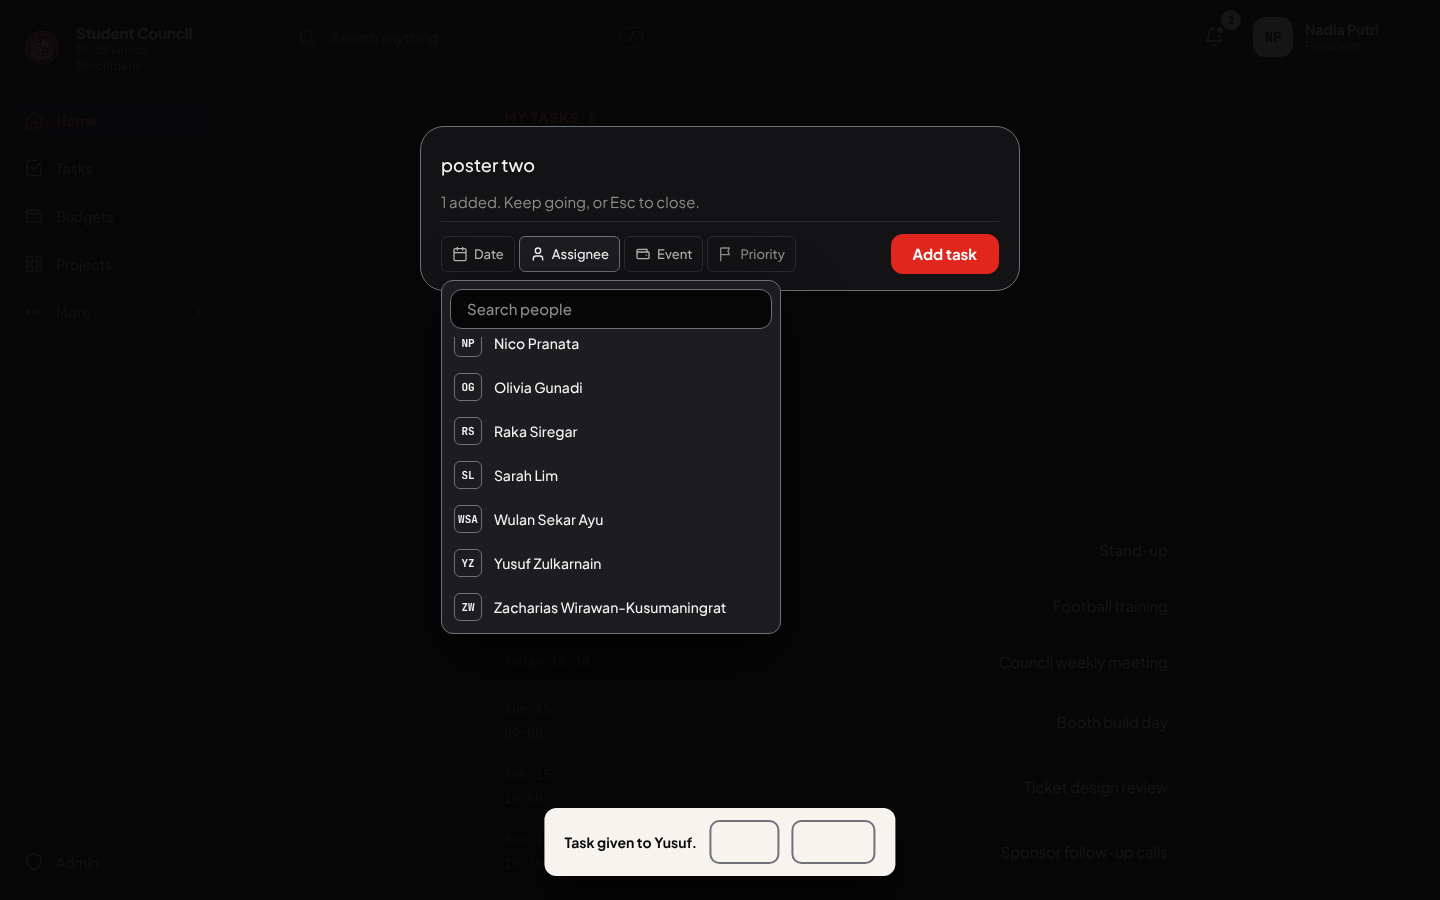
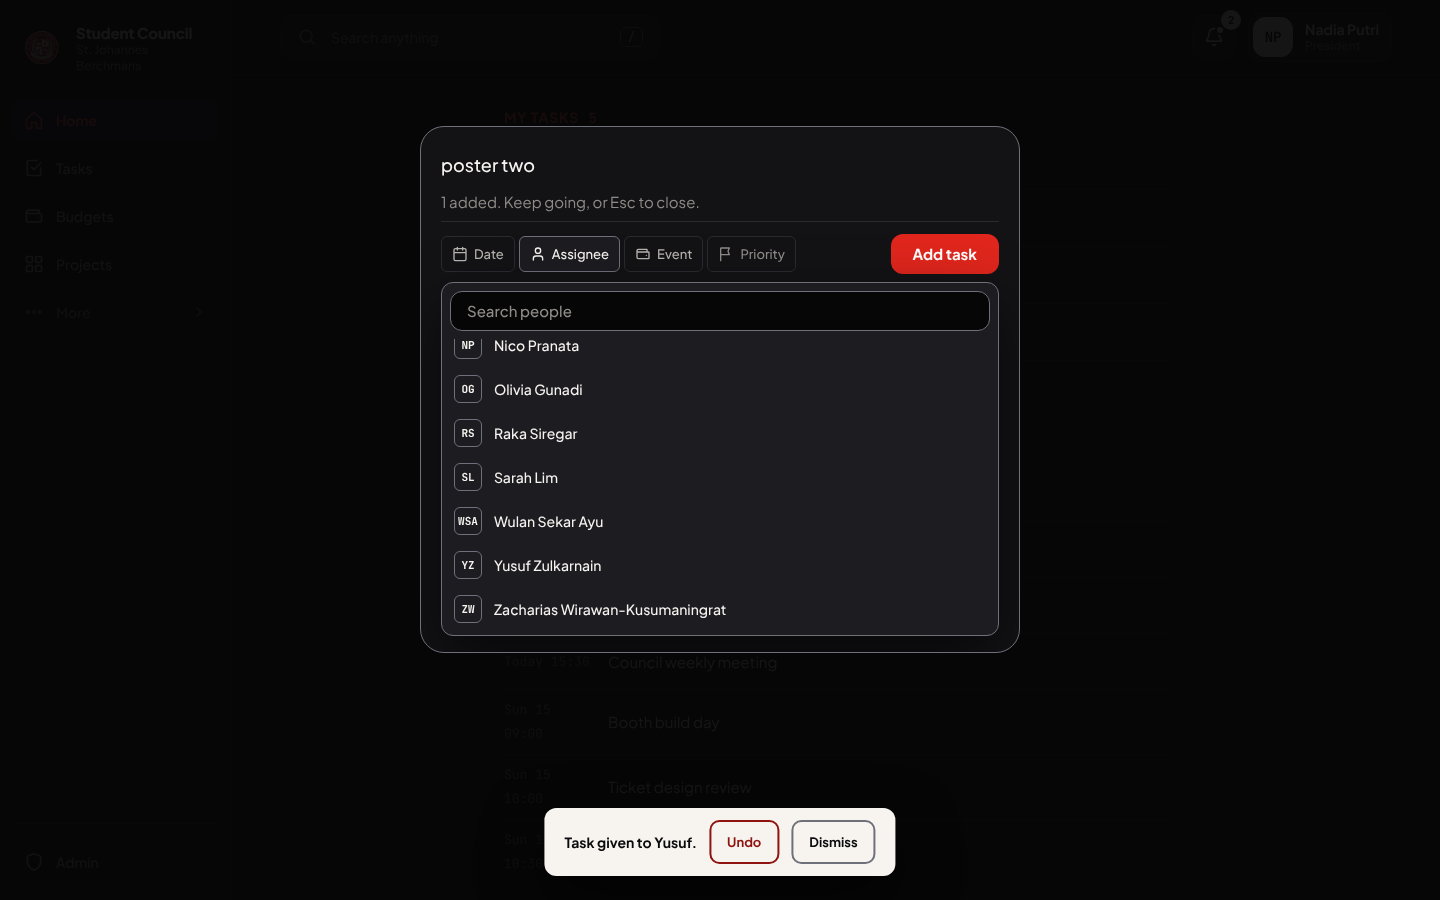
Panel text size; update log
Claude-Session: https://claude.ai/code/session_018cJn4UzCJGYvj8HdKA5QwM

Changed region(s): [[0.3125, 0.3111, 0.7188, 0.7156], [0.5625, 0.9333, 0.5938, 0.9644], [0.5, 0.9333, 0.5312, 0.9644]]

diff --git a/src/app.css b/src/app.css
@@ -890,3 +890,4 @@ div.fl-line { cursor: default; }
   .fl-tok, .fl-qpop, .fl-t.is-completing .fl-tick svg, .fl-sheet--side .fl-sheet__card { animation: none; }
   .fl-tick path, .fl-tick circle, .fl-t, .fl-t__main { transition: none; }
 }
+.fl-sheet--side .fl-sheet__card p { margin: 0; font-size: 13px; line-height: 18px; }

diff --git a/log.md b/log.md
@@ -1,3 +1,27 @@
+# Progress log: quick add and the Todoist-grade task list
+
+Branch `claude/practical-ritchie-r1rgrt`. Spec: QUICKADD_SPEC.md. Decisions Q1–Q19 in `decision.md`.
+
+## Done
+- [x] Parser `src/quickadd.js` (pure, ~0.04 ms/parse): @ tiers + aliases + ambiguity, # event budgets, p1–p4, English and Indonesian dates, noun guards, quotes, escapes, rejected tokens, role warnings.
+- [x] `tests/quickadd.test.mjs`: 34 tests (all spec 1.6 rows + extras), all pass.
+- [x] Quick add (`src/quick-add.jsx`): inline token highlights, plain-words preview, dropdown on ambiguity, Backspace un-highlights a token, Date/Assignee/Event/Priority popovers (searchable, keyboard), stays open after Enter keeping the event, Q key, context defaults (budget page → event, profile → person).
+- [x] Tasks: Mine/Given/Everyone/Overdue, groups Overdue/Today/Upcoming/No date, round priority checkbox with complete animation + 5 s Undo, side panel/sheet editing through the parser, J/K/E/T/Enter, drag to reorder and onto a 7-day strip to reschedule (mouse and touch).
+- [x] Nav: Home, Tasks, Budgets, Projects + remembered More; phone floating 5-tile bar restored. Home: My tasks → Waiting on me → Next 7 days → Budgets.
+- [x] Red accent per spec; DESIGN.md updated. Rules: task `priority`, `dueTime`, `order`; member `aliases` (admin form).
+
+## Checks (last run)
+- `npm run check`: ok. `npm run test:rules`: 102 pass. `node --test tests/quickadd.test.mjs`: 34 pass.
+- Browser QA on the emulator (41 members), 375 and 1440 px, screenshots in `qa/quickadd/`: @-typing 2 taps/1 s; popover 2 taps (5.7 s at 375, scrolling 40 names); Indonesian 1 tap; complete+Undo 2 taps/1.3 s; drag 0 taps/<3 s. No overflow, no console errors.
+
+## Open
+- Rescheduling by drag is assigner-only (rules); the owner gets a toast explaining why.
+- Not tested on a real phone keyboard; light theme not re-checked on new screens.
+- Not deployed: rules must ship with the build.
+
+
+---
+
 # Progress log: tasks and budgets backbone
 
 Branch `claude/sharp-brown-8g9glq`, pull request 16JoeTheCoder/stjbs-council#6. Every decision is in `decision.md` under "Framework update".
